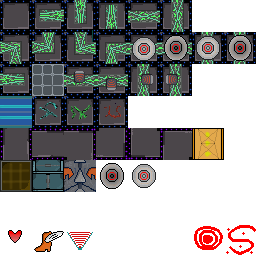
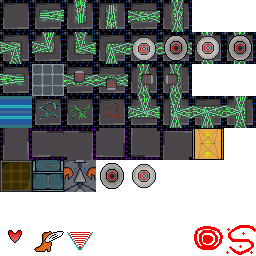
Meh

Changed region(s): [[0.5, 0.375, 1.0, 0.5]]

diff --git a/src/com/osreboot/minild60/Record.java b/src/com/osreboot/minild60/Record.java
@@ -1,0 +1,21 @@
+package com.osreboot.minild60;
+
+import com.osreboot.minild60.TextureManager.TextureSeries;
+import com.osreboot.ridhvl.painter.painter2d.HvlPainter2D;
+
+public class Record {
+	private float relX, relY;
+	
+	public static final float radius = 30f;
+	
+	public Record(float x, float y)
+	{
+		relX = x - Game.cameraX;
+		relY = y - Game.cameraY;
+	}
+	
+	public void draw(float delta)
+	{
+		HvlPainter2D.hvlDrawQuad(Game.cameraX + relX - radius, Game.cameraY + relY - radius, radius * 2, radius * 2, TextureManager.getResource(TextureSeries.PLAY, 3));
+	}
+}

diff --git a/src/com/osreboot/minild60/TextureManager.java b/src/com/osreboot/minild60/TextureManager.java
@@ -28,6 +28,7 @@ public class TextureManager {
 		playLoader.loadResource("TestTilesheet");
 		playLoader.loadResource("Enemy");
 		playLoader.loadResource("Particle");
+		playLoader.loadResource("Record");
 	}
 	
 	public static Texture getResource(TextureSeries seriesArg, int indexArg){
